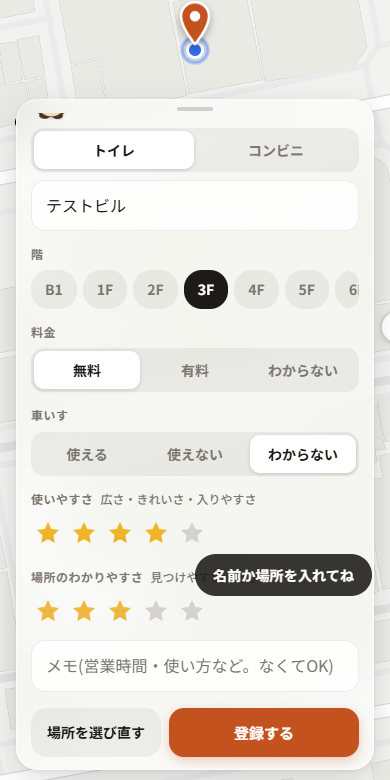
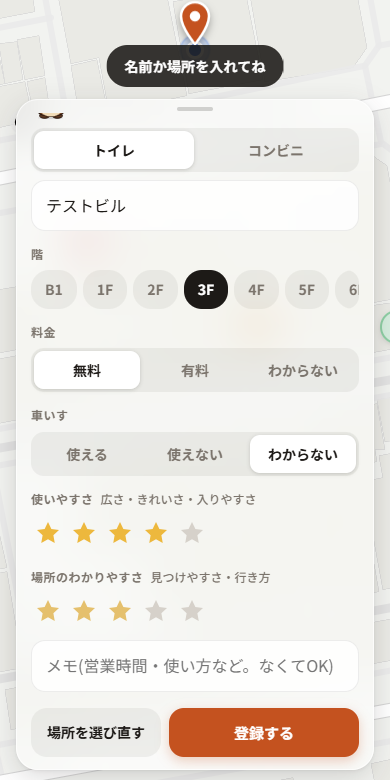
投稿の連続制限と近くの登録の確認、テストを新しい動きに合わせる

diff --git a/tools/test-add.js b/tools/test-add.js
@@ -3,7 +3,7 @@ const { chromium } = require('../../taskline/node_modules/playwright-core');
 (async () => {
   const b = await chromium.launch({ executablePath: 'C:/Program Files (x86)/Microsoft/Edge/Application/msedge.exe', args: ['--enable-unsafe-swiftshader','--ignore-gpu-blocklist'] });
   const ctx = await b.newContext({ viewport: { width: 390, height: 780 }, hasTouch: true, geolocation: { latitude: 43.0545, longitude: 141.3530 }, permissions: ['geolocation'] });
-  await ctx.addInitScript(() => { localStorage.setItem('loo-guide','1'); localStorage.setItem('loo-settings', JSON.stringify({ chips: { free: true } })); }); const p = await ctx.newPage();
+  await ctx.addInitScript(() => { localStorage.setItem('loo-guide','1'); localStorage.setItem('loo-settings', JSON.stringify({ chips: { free: true } })); }); const p = await ctx.newPage(); p.on('dialog', d => d.accept());
   p.on('pageerror', e => console.log('ERR', e.message));
   const vis = () => p.evaluate(() => [...document.querySelectorAll('.pin')].filter(e => !e.hidden).length);
   const shot = n => p.screenshot({ path: `tools/shot-${n}.png` });
@@ -19,14 +19,14 @@ const { chromium } = require('../../taskline/node_modules/playwright-core');
   await p.fill('#fname', 'テストビル'); await p.click('.seg[data-k=floor] button[data-v="3"]'); await p.click('.seg[data-k=fee] button[data-v=free]'); await p.click('.stars[data-k=ease] button[data-v="4"]'); await p.click('.stars[data-k=find] button[data-v="3"]');
   await shot('form'); await p.click('#fsave'); await p.waitForTimeout(800);
   console.log('5 pins after add', await vis());
-  await p.evaluate(() => { const a = [...document.querySelectorAll('.pin')]; a[a.length-1].click(); }); await p.waitForTimeout(800);
+  await p.evaluate(() => { const a = [...document.querySelectorAll('.maplibregl-marker.pin')]; a[a.length-1].click(); }); await p.waitForTimeout(800);
   const NL = String.fromCharCode(10);
   const flat = async sel => (await p.locator(sel).first().innerText()).split(NL).join(' ');
   console.log('6 detail:', await p.locator('#sbody h2').innerText(), '|', await flat('#sbody .tags'), '| rate:', await flat('.rate'), '| care:', (await flat('.care')).slice(0, 18));
   await p.click('.reps button[data-k=clean]'); await p.waitForTimeout(300);
   console.log('7 report pressed:', await p.locator('.reps button[data-k=clean]').getAttribute('aria-pressed'), await p.locator('.reps button[data-k=clean]').innerText());
   await shot('detail');
-  p.once('dialog', d => d.accept()); await p.click('#del'); await p.waitForTimeout(500);
+  await p.click('#del'); await p.waitForTimeout(500);
   console.log('8 pins after delete', await vis());
   await b.close();
 })();

diff --git a/js/add.js b/js/add.js
@@ -77,10 +77,23 @@ function showForm(loc,keep){
     } else if (!name){ toast('名前か場所を入れてね'); return; }
     const t=conv?{name,lat:loc.lat,lng:loc.lng,fee:null,wheelchair:null,floor:null,ease:f.ease,find:f.find,type:'conv',brand:f.brand,loan:f.loan,note:f.note.trim()}
       :{name,lat:loc.lat,lng:loc.lng,fee:f.fee,wheelchair:f.wheelchair,floor:f.floor,ease:f.ease,find:f.find,type:'toilet',brand:null,loan:null,note:f.note.trim()};
-    try{ await cloud.add(t); toast('登録しました。ありがとう!'); endAdd(); }
+    const lim=postLimit(); if (lim){ toast(lim); return; }
+    const dup=st.toilets.filter(x=>x.type===t.type&&(t.type==='toilet'||x.brand===t.brand)).map(x=>({x,d:distanceM(loc,x)})).sort((a,b)=>a.d-b.d)[0];
+    if (dup&&dup.d<=20&&!confirm('すぐ近く('+Math.round(dup.d)+'m)に「'+nameOf(dup.x)+'」が登録されています。それでも登録しますか?')) return;
+    try{ await cloud.add(t); markPosted(); toast('登録しました。ありがとう!'); endAdd(); }
     catch(e){ toast('登録できませんでした'); }
   };
 }
+// 連続投稿の制限(この端末だけの簡易なもの。荒らし対策の本体は firestore.rules)
+const POST_KEY='loo-postlog', POST_GAP=30000, POST_DAY=10;
+function postLog(){ try{ return JSON.parse(localStorage.getItem(POST_KEY)||'[]').filter(x=>Date.now()-x<86400000); }catch(e){ return []; } }
+function postLimit(){
+  const a=postLog(); if (!a.length) return null;
+  if (Date.now()-a[a.length-1]<POST_GAP) return 'すこし間をあけてから、もう一度登録してね';
+  if (a.length>=POST_DAY) return '今日はたくさん登録してくれてありがとう。続きはまた明日お願いします';
+  return null;
+}
+function markPosted(){ try{ const a=postLog(); a.push(Date.now()); localStorage.setItem(POST_KEY,JSON.stringify(a)); }catch(e){} }
 function endAdd(){
   st.adding=false; document.body.classList.remove('adding'); $('cross').hidden=true;
   map.setPadding({top:0,left:0,right:0,bottom:0}); renderSheet();

diff --git a/tools/test-settings.js b/tools/test-settings.js
@@ -4,7 +4,7 @@ const { chromium } = require('../../taskline/node_modules/playwright-core');
   const b = await chromium.launch({ executablePath: 'C:/Program Files (x86)/Microsoft/Edge/Application/msedge.exe', args: ['--enable-unsafe-swiftshader','--ignore-gpu-blocklist'] });
   const ctx = await b.newContext({ viewport: { width: 390, height: 780 }, hasTouch: true, colorScheme: 'light', geolocation: { latitude: 43.0545, longitude: 141.3530 }, permissions: ['geolocation'] });
   await ctx.addInitScript(() => localStorage.setItem('loo-guide', '1'));
-  const p = await ctx.newPage(); p.on('pageerror', e => console.log('ERR', e.message));
+  const p = await ctx.newPage(); p.on('dialog', d => d.accept()); p.on('pageerror', e => console.log('ERR', e.message));
   const url = 'file:///C:/Users/masaya/dev/sapporo-loo-web/index.html?local=1';
   await p.goto(url); await p.waitForTimeout(4500);
   const walk = async () => (await p.locator('.nmeta').innerText()).split(String.fromCharCode(10)).join(' ');
@@ -24,7 +24,7 @@ const { chromium } = require('../../taskline/node_modules/playwright-core');
   await p.fill('#fname', '設定テストビル'); await p.click('#fsave'); await p.waitForTimeout(600);
   await p.click('#info'); await p.waitForTimeout(300);
   console.log('5 my posts:', await p.locator('.mrow b').allInnerTexts());
-  p.once('dialog', d => d.accept()); await p.click('[data-del]'); await p.waitForTimeout(500);
+  await p.click('[data-del]'); await p.waitForTimeout(500);
   console.log('6 after delete:', await p.locator('[data-del]').count());
   await p.reload(); await p.waitForTimeout(3500);
   console.log('7 persisted after reload: theme', await p.evaluate(() => document.documentElement.dataset.theme), '| pace', await p.evaluate(() => st.settings.pace), '| vibrate', await p.evaluate(() => st.settings.vibrate), '| nearConv', await p.evaluate(() => st.settings.nearConv));

diff --git a/tools/test-conv.js b/tools/test-conv.js
@@ -3,7 +3,7 @@ const { chromium } = require('../../taskline/node_modules/playwright-core');
 (async () => {
   const b = await chromium.launch({ executablePath: 'C:/Program Files (x86)/Microsoft/Edge/Application/msedge.exe', args: ['--enable-unsafe-swiftshader','--ignore-gpu-blocklist'] });
   const ctx = await b.newContext({ viewport: { width: 390, height: 780 }, hasTouch: true, geolocation: { latitude: 43.0545, longitude: 141.3530 }, permissions: ['geolocation'] });
-  await ctx.addInitScript(() => localStorage.setItem('loo-guide','1')); const p = await ctx.newPage(); p.on('pageerror', e => console.log('ERR', e.message));
+  await ctx.addInitScript(() => localStorage.setItem('loo-guide','1')); const p = await ctx.newPage(); p.on('dialog', d => d.accept()); p.on('pageerror', e => console.log('ERR', e.message));
   await p.goto('file:///C:/Users/masaya/dev/sapporo-loo-web/index.html?local=1'); await p.waitForTimeout(4000);
   const add = async (brand, loan, name) => {
     await p.click('#tabadd'); await p.waitForTimeout(700); await p.click('#pok'); await p.waitForTimeout(400);
@@ -11,7 +11,7 @@ const { chromium } = require('../../taskline/node_modules/playwright-core');
     if (name) await p.fill('#fname', name);
     if (brand) await p.click(`.seg[data-k=brand] button[data-v=${brand}]`);
     if (loan) await p.click(`.seg[data-k=loan] button[data-v=${loan}]`);
-    await p.click('#fsave'); await p.waitForTimeout(500);
+    await p.evaluate(() => localStorage.removeItem('loo-postlog')); await p.click('#fsave'); await p.waitForTimeout(500);
   };
   await add(null, null); console.log('1 no brand toast', await p.locator('.toast').count(), '| form still open', await p.locator('#fsave').count());
   await p.click('.seg[data-k=brand] button[data-v=seven]'); await p.click('#fsave'); console.log('2 no loan toast', await p.locator('.toast').count());

diff --git a/index.html b/index.html
@@ -77,7 +77,7 @@
 <script src="js/map.js?v=8fd9952c"></script>
 <script src="js/settings.js?v=c1e0e48e"></script>
 <script src="js/ui.js?v=fd507869"></script>
-<script src="js/add.js?v=03f4b26a"></script>
+<script src="js/add.js?v=143958be"></script>
 <script src="js/main.js?v=93254c64"></script>
 </body>
 </html>

diff --git a/README.md b/README.md
@@ -61,7 +61,7 @@
 - PaP と同じ `playground-d8897`。コレクション `loo-toilets`(追加されたトイレ。項目: name,lat,lng,fee,wheelchair,floor,ease,find,type,brand,loan,note,uid,createdAt)と `loo-reports`(一言報告。ID=`<toiletId>_<uid>`、kind: clean/crowded/closed/loan-yes/loan-ask/loan-no)。匿名ログインで書く。読むのは誰でも、削除・取り消しは本人だけ。他のアプリと衝突しないよう `loo-` を付けている
 - **ルールの足し方:** Firebase コンソール → Firestore → ルール →「`documents` の中」に `firestore.playground-snippet.rules` の match 2つを足して公開。**他のアプリのルールが入っているなら完全版は貼らない**(消える)。匿名ログインの有効化と承認済みドメイン `ma-ookami.github.io` も確認
 - ルール: `loo-toilets` の ID は英数字 20 文字だけ許可(ID を使った XSS 対策)。**ルールを変えたので、コンソールに貼り直す**
-- 荒らし対策は簡易(項目・長さ・札幌周辺の座標の制限)。連続投稿の制限・App Check は未実装
+- 荒らし対策は簡易: ルールで項目・長さ・座標・ID の形式を制限。画面側(この端末だけの簡易)で、投稿は 30 秒あけて 1 日 10 件まで、20m 以内に同じ種類の登録があれば確認ダイアログ。App Check・通報は未実装
 
 ## 7. 開発・確認
 - 動かす: `index.html` を直接開く(`file://` では位置情報は取れない。公開 URL か localhost で)
